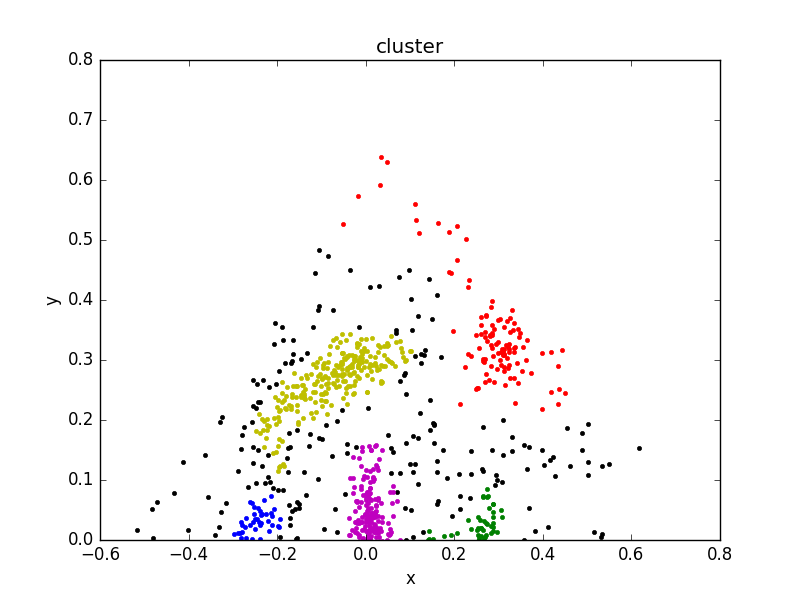
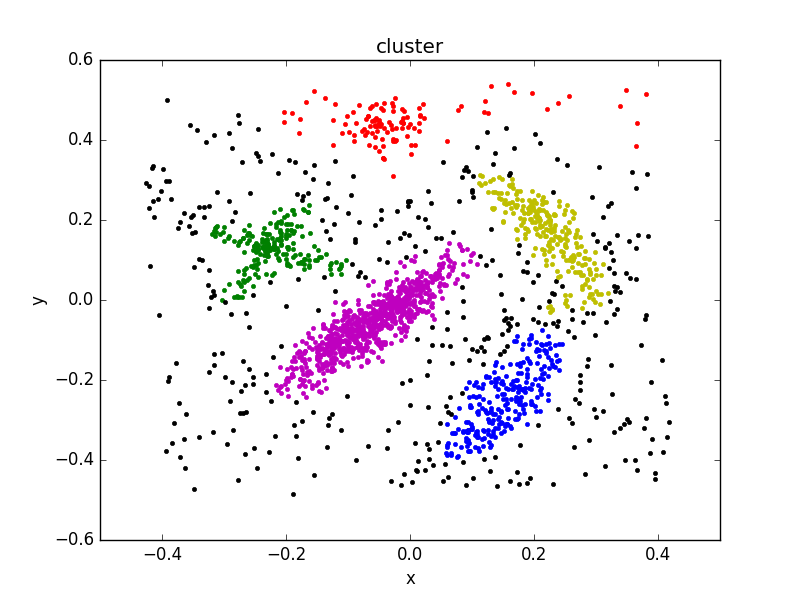
userage

diff --git a/cluster.py b/cluster.py
@@ -94,6 +94,16 @@ def min_distance(distance, num, max_dis, rho):
 
 class DensityPeakCluster(object):
 
+    def __init__(self):
+        self.distance = None
+        self.rho = None
+        self.delta = None
+        self.nearest_neighbor = None
+        self.num = None
+        self.dc = None
+        self.core = None
+
+
     def density_and_distance(self, distance_file, dc = None):
         distance, num, max_dis, min_dis = load_data(distance_file)
         if dc == None:
@@ -101,12 +111,27 @@ class DensityPeakCluster(object):
         rho = local_density(distance, num, dc)
         delta, nearest_neighbor = min_distance(distance, num, max_dis, rho)
         
-        return distance, rho, delta, nearest_neighbor, num, dc
+        self.distance = distance
+        self.rho = rho
+        self.delta = delta
+        self.nearest_neighbor = nearest_neighbor
+        self.num = num
+        self.dc = dc
 
-    def cluster(self, distance_file, density_threshold, distance_threshold, dc = None):
-        distance, rho, delta, nearest_neighbor, num, dc  = self.density_and_distance(distance_file, dc = dc)
+        return rho, delta
 
-        print('Find the center.\n')
+    def cluster(self, density_threshold, distance_threshold, dc = None):
+        if self.distance == None:
+            print('Please run density_and_distance first.')
+            exit(0)
+        distance = self.distance
+        rho = self.rho
+        delta = self.delta
+        nearest_neighbor = self.nearest_neighbor
+        num = self.num
+        dc = self.dc
+
+        print('Find the center.')
         cluster = [-1] * (num + 1)
         center = []
         for i in range(1, num + 1):
@@ -114,7 +139,7 @@ class DensityPeakCluster(object):
                 center.append(i)
                 cluster[i] = i
         
-        print('Assignation begings.\n')
+        print('Assignation begings.')
         #assignation
         sorted_rho_idx = np.argsort(-rho)
         for i in range(num):
@@ -123,7 +148,7 @@ class DensityPeakCluster(object):
                 continue
             cluster[idx] = cluster[nearest_neighbor[idx]]
 
-        print('Halo and core.\n')
+        print('Halo and core.')
         '''
         halo: points belong to halo of a cluster
         core: points belong to core of a cluster, -1 otherwise
@@ -163,4 +188,5 @@ class DensityPeakCluster(object):
 
 if __name__ == '__main__':
     dpcluster = DensityPeakCluster()
-    dpcluster.cluster(r'./data/example_distances.data', 20, 0.1)
+    dpcluster.density_and_distance(r'./data/example_distances.data')
+    dpcluster.cluster(20, 0.1)

diff --git a/plot.py b/plot.py
@@ -1,4 +1,5 @@
 #-*- coding: utf-8 -*-
+import sys
 import numpy as np
 import matplotlib.pyplot as plt
 from cluster import *
@@ -26,6 +27,7 @@ def plot_scatter_diagram(which_fig, x, y, x_label = 'x', y_label = 'y', title = 
         plt.plot(x, y, styles[0])
     else:
         clses = set(cluster)
+        print(clses)
         xs, ys = {}, {}
         for i in range(len(x)):
             try:
@@ -45,7 +47,6 @@ def plot_scatter_diagram(which_fig, x, y, x_label = 'x', y_label = 'y', title = 
     plt.title(title)
     plt.xlabel(x_label)
     plt.ylabel(y_label)
-    plt.ylim(bottom = 0)
     plt.show()
 
 
@@ -74,11 +75,11 @@ def plot_cluster(dpcluster):
         cls.append(dpcluster.core[i])
     cls.append(dpcluster.core[dpcluster.num])
     cls = np.array(cls, dtype = np.float32)
-    '''
+
     with open(r'./dpcluster.txt', 'w') as outfile:
         outfile.write('\n'.join(list(map(str, cls))))
         outfile.close()
-    '''
+
     seed = np.random.RandomState(seed=3)
     mds = manifold.MDS(max_iter=200, eps=1e-4, n_init=1, dissimilarity="precomputed")
     dp_mds = mds.fit_transform(dp)
@@ -93,9 +94,19 @@ if __name__ == '__main__':
     cls = np.array([1, 4, 2, 3, 5, -1, -1, 6, 6, 6])
     plot_scatter_diagram(0, x, y, cluster = cls)
     '''
+    if len(sys.argv) == 1:
+        input_file = r'./data/example_distances.data'
+    else:
+        input_file = sys.argv[1]
     dpcluster = DensityPeakCluster()
-    # distance, rho, delta, nearest_neighbor, num, dc = dpcluster.density_and_distance(r'./data/example_distances.data')
-    # plot_rho_delta(rho, delta)
-    dpcluster.cluster(r'./data/example_distances.data', 20, 0.15)
+    rho, delta = dpcluster.density_and_distance(input_file)
+    print('Close the graph.\nEnter the density_threshold(rho) and distance_threshold(delta) according to the decision graph.\n')
+    plot_rho_delta(rho, delta)
+
+    density_threshold, distance_threshold = 20, 0.15 #threshold I choose for example_distance.data
+    line = input('Input the parameter: ')
+    line = line.strip().split(' ')
+    density_threshold, distance_threshold = float(line[0]), float(line[1])
+    dpcluster.cluster(density_threshold, distance_threshold)
     plot_cluster(dpcluster)
     

diff --git a/README.md b/README.md
@@ -2,5 +2,13 @@
 
 A implementation for 'Clustering by fast search and find of density peaks' in science 2014.  
 
+## Userage
+0. The input file should be distance metrix beteen points. If you have data of points vector, `distance.py` may be helpful.
+1. run `python plot.py input_filename` and you will get the decison graph (of rho and delta).
+2. Close (save it if you want) the graph and input the density_threshold(rho) and distance_threshold(delta) according to the decision graph, two float numbers separated by a blank space.
+3. The cluster result will be write into file `dpcluster.txt` with two columns, points index in column 1 while
+ cluster center in column 2 (-1 for halo).
+4. A graph of cluster result will be plotted meanwhile.
+
 ## Reference
 - [Clustering by fast search and find of density peaks](http://www.sciencemag.org/content/344/6191/1492.full)
